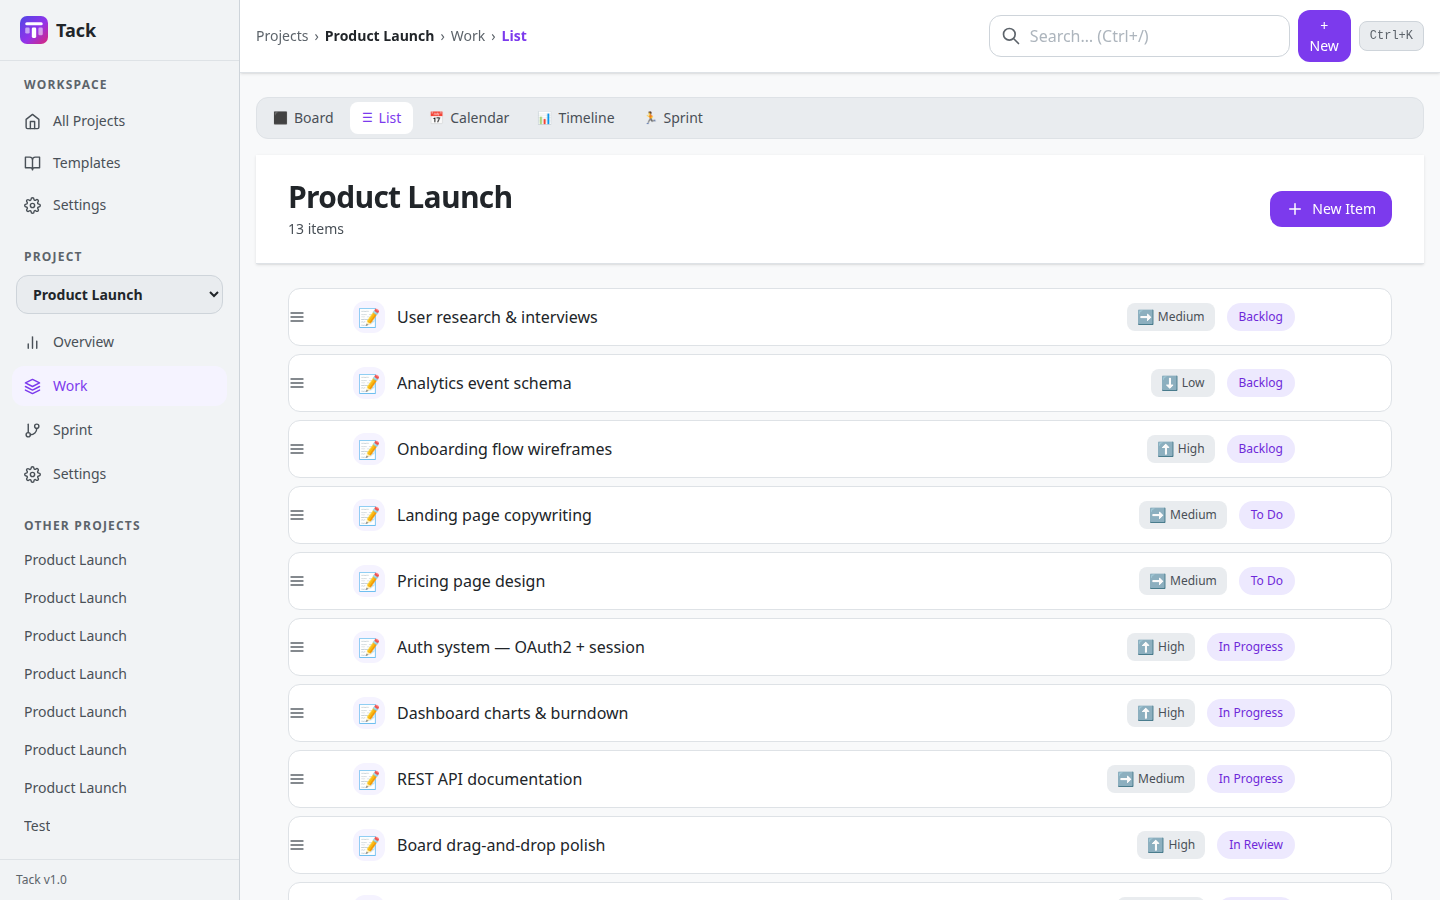
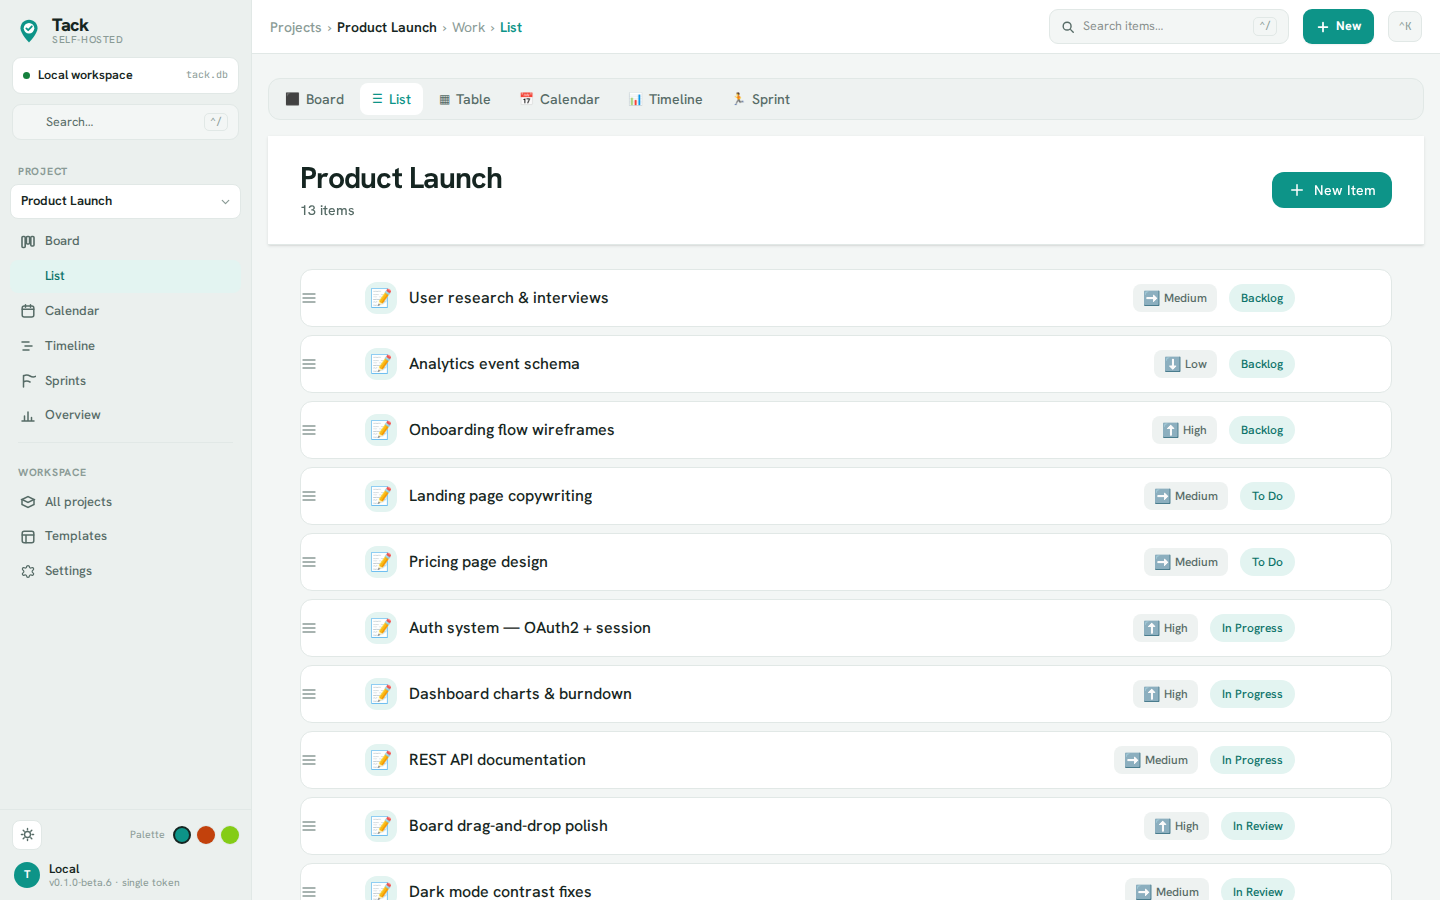
docs: refresh README screenshots + hero GIF for the redesigned UI
Regenerate board/list/timeline/dashboard/settings-vocabulary PNGs and the
hero GIF against the new teal multi-palette design.

Also fix the hero-gif capture's Timeline selector: the redesigned sidebar
adds per-lens links, so the link role now needs .first() to satisfy
Playwright strict mode.

diff --git a/frontend/e2e/hero-gif.spec.ts b/frontend/e2e/hero-gif.spec.ts
@@ -130,7 +130,8 @@ test('hero GIF', async ({ page }, testInfo) => {
   await page.waitForTimeout(1000);
 
   // ── Scene 3: Switch to Timeline ───────────────────────────────────────────────
-  await page.getByRole('link', { name: /timeline/i }).click();
+  // The sidebar now also has a per-lens Timeline link, so scope to the first match.
+  await page.getByRole('link', { name: /timeline/i }).first().click();
   await waitForApp(page);
   await page.waitForTimeout(1800);
 
